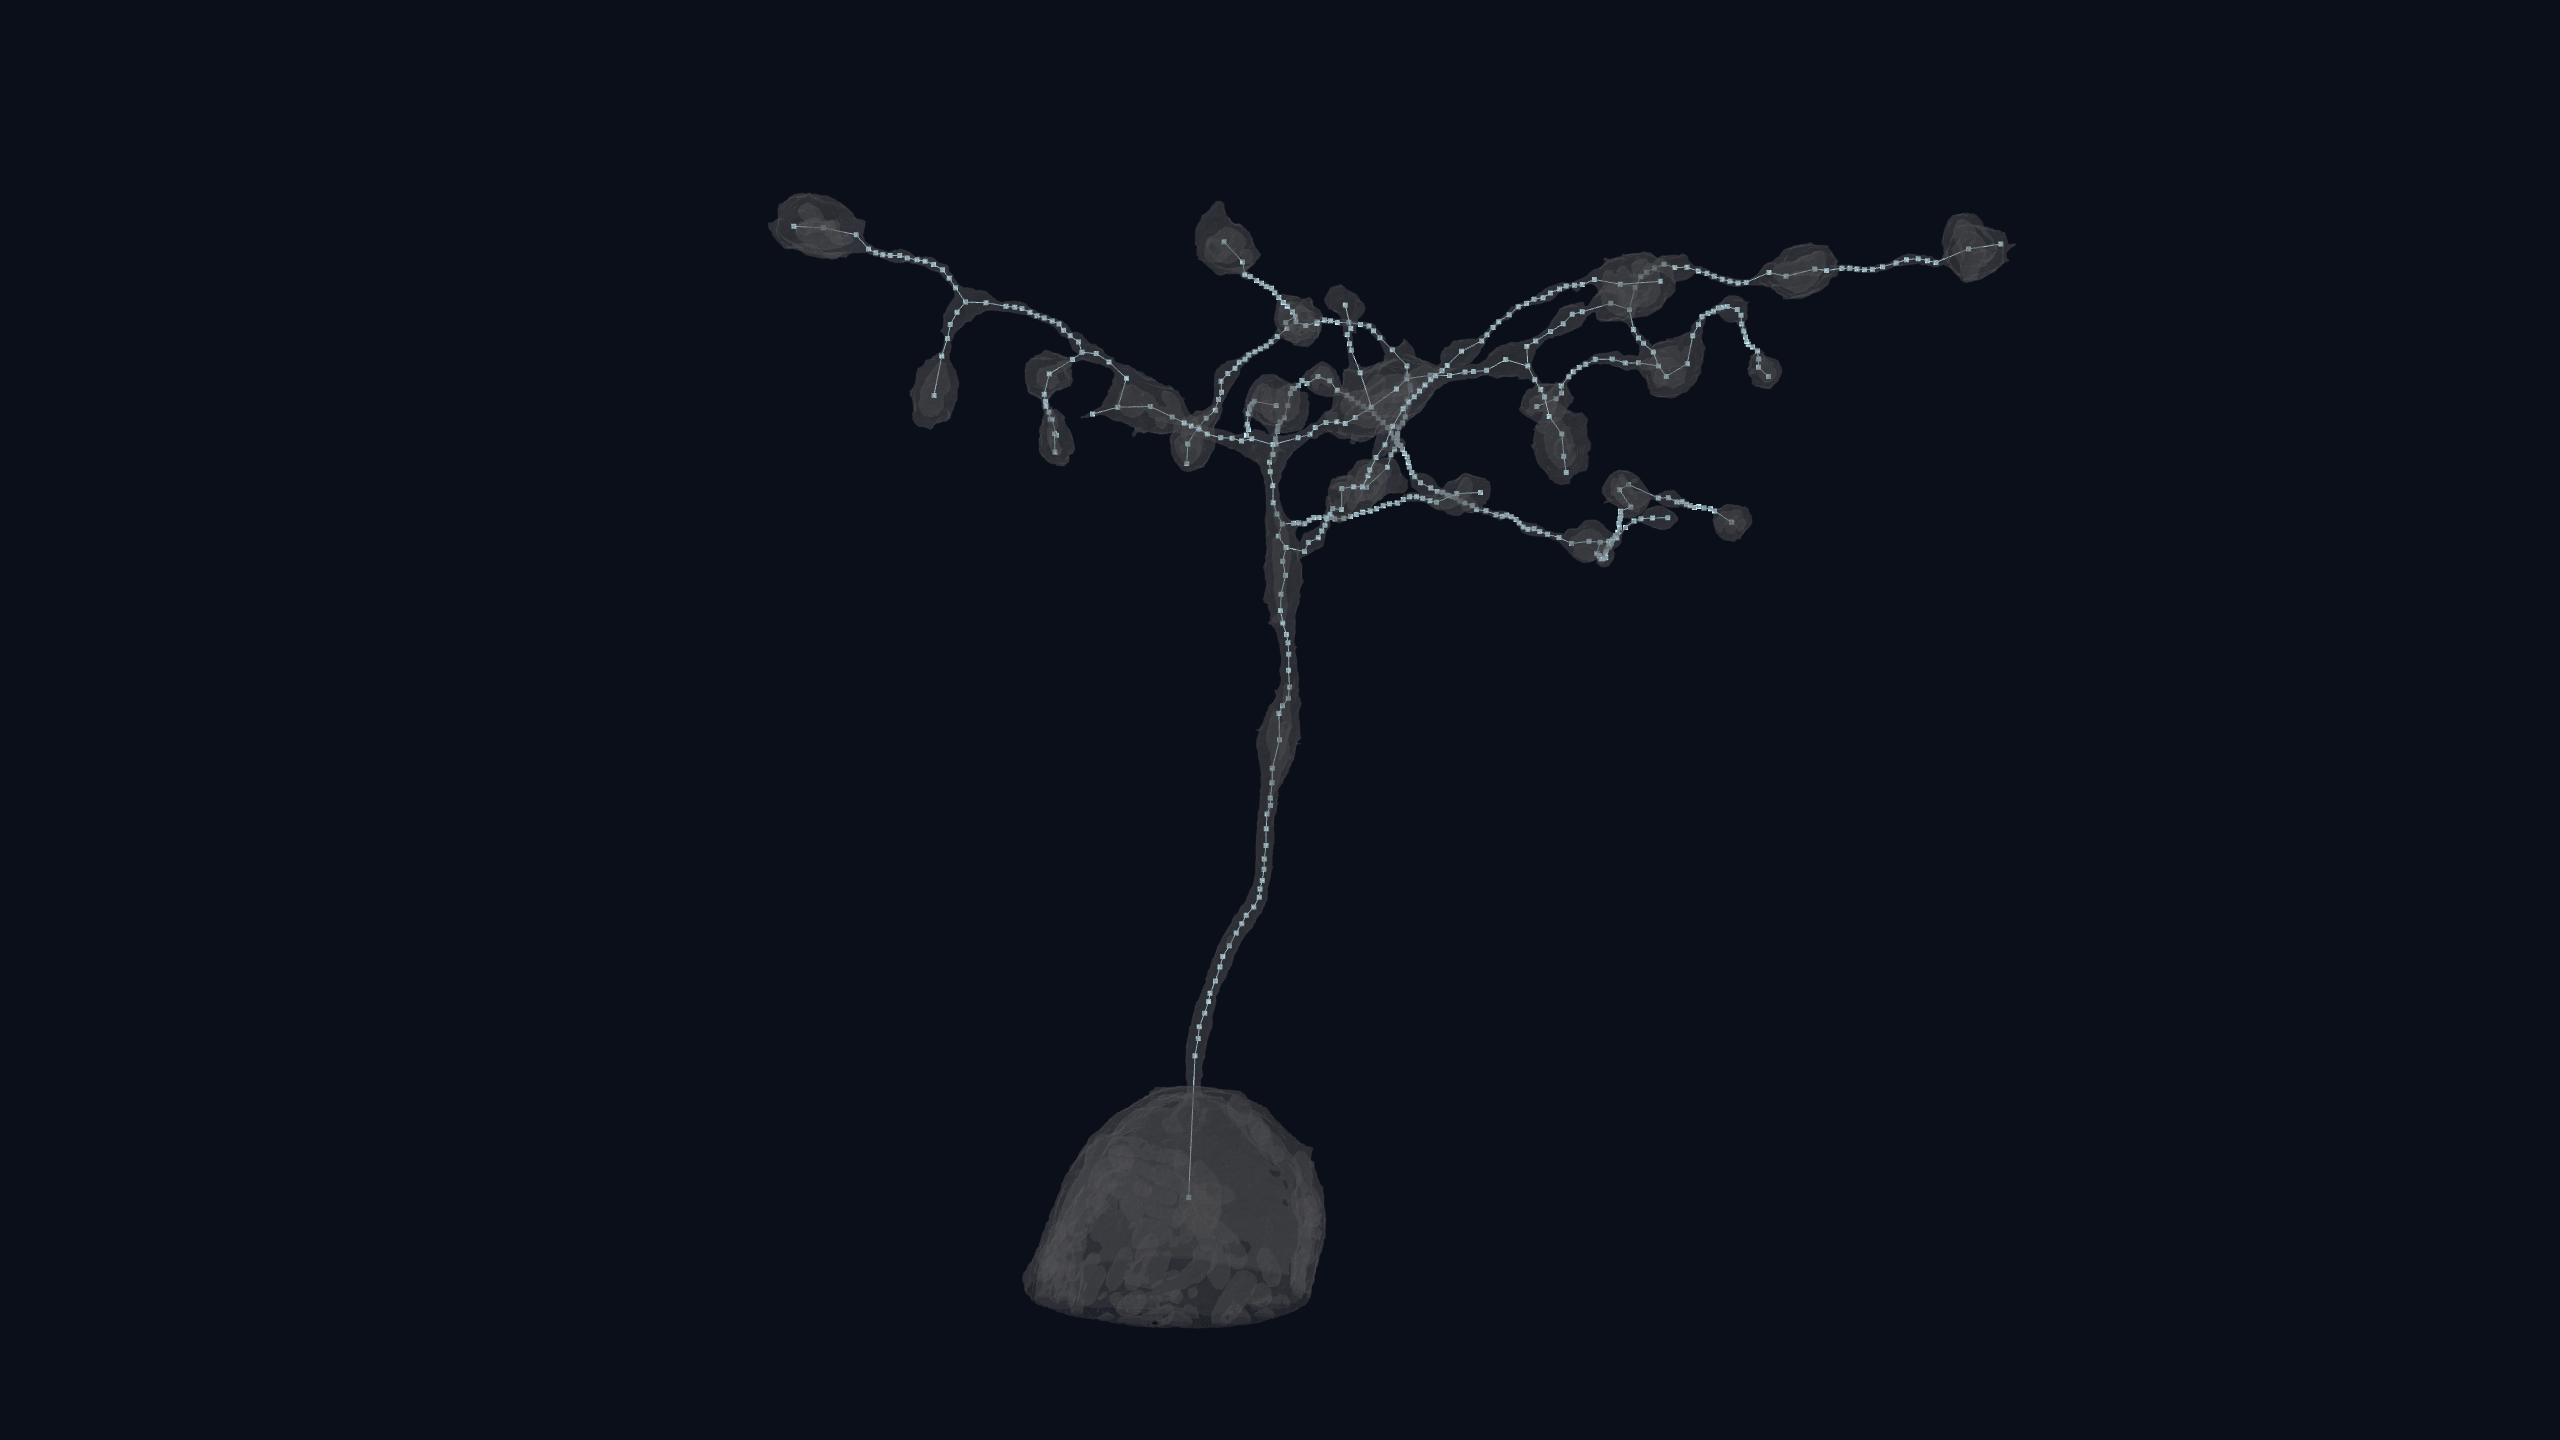
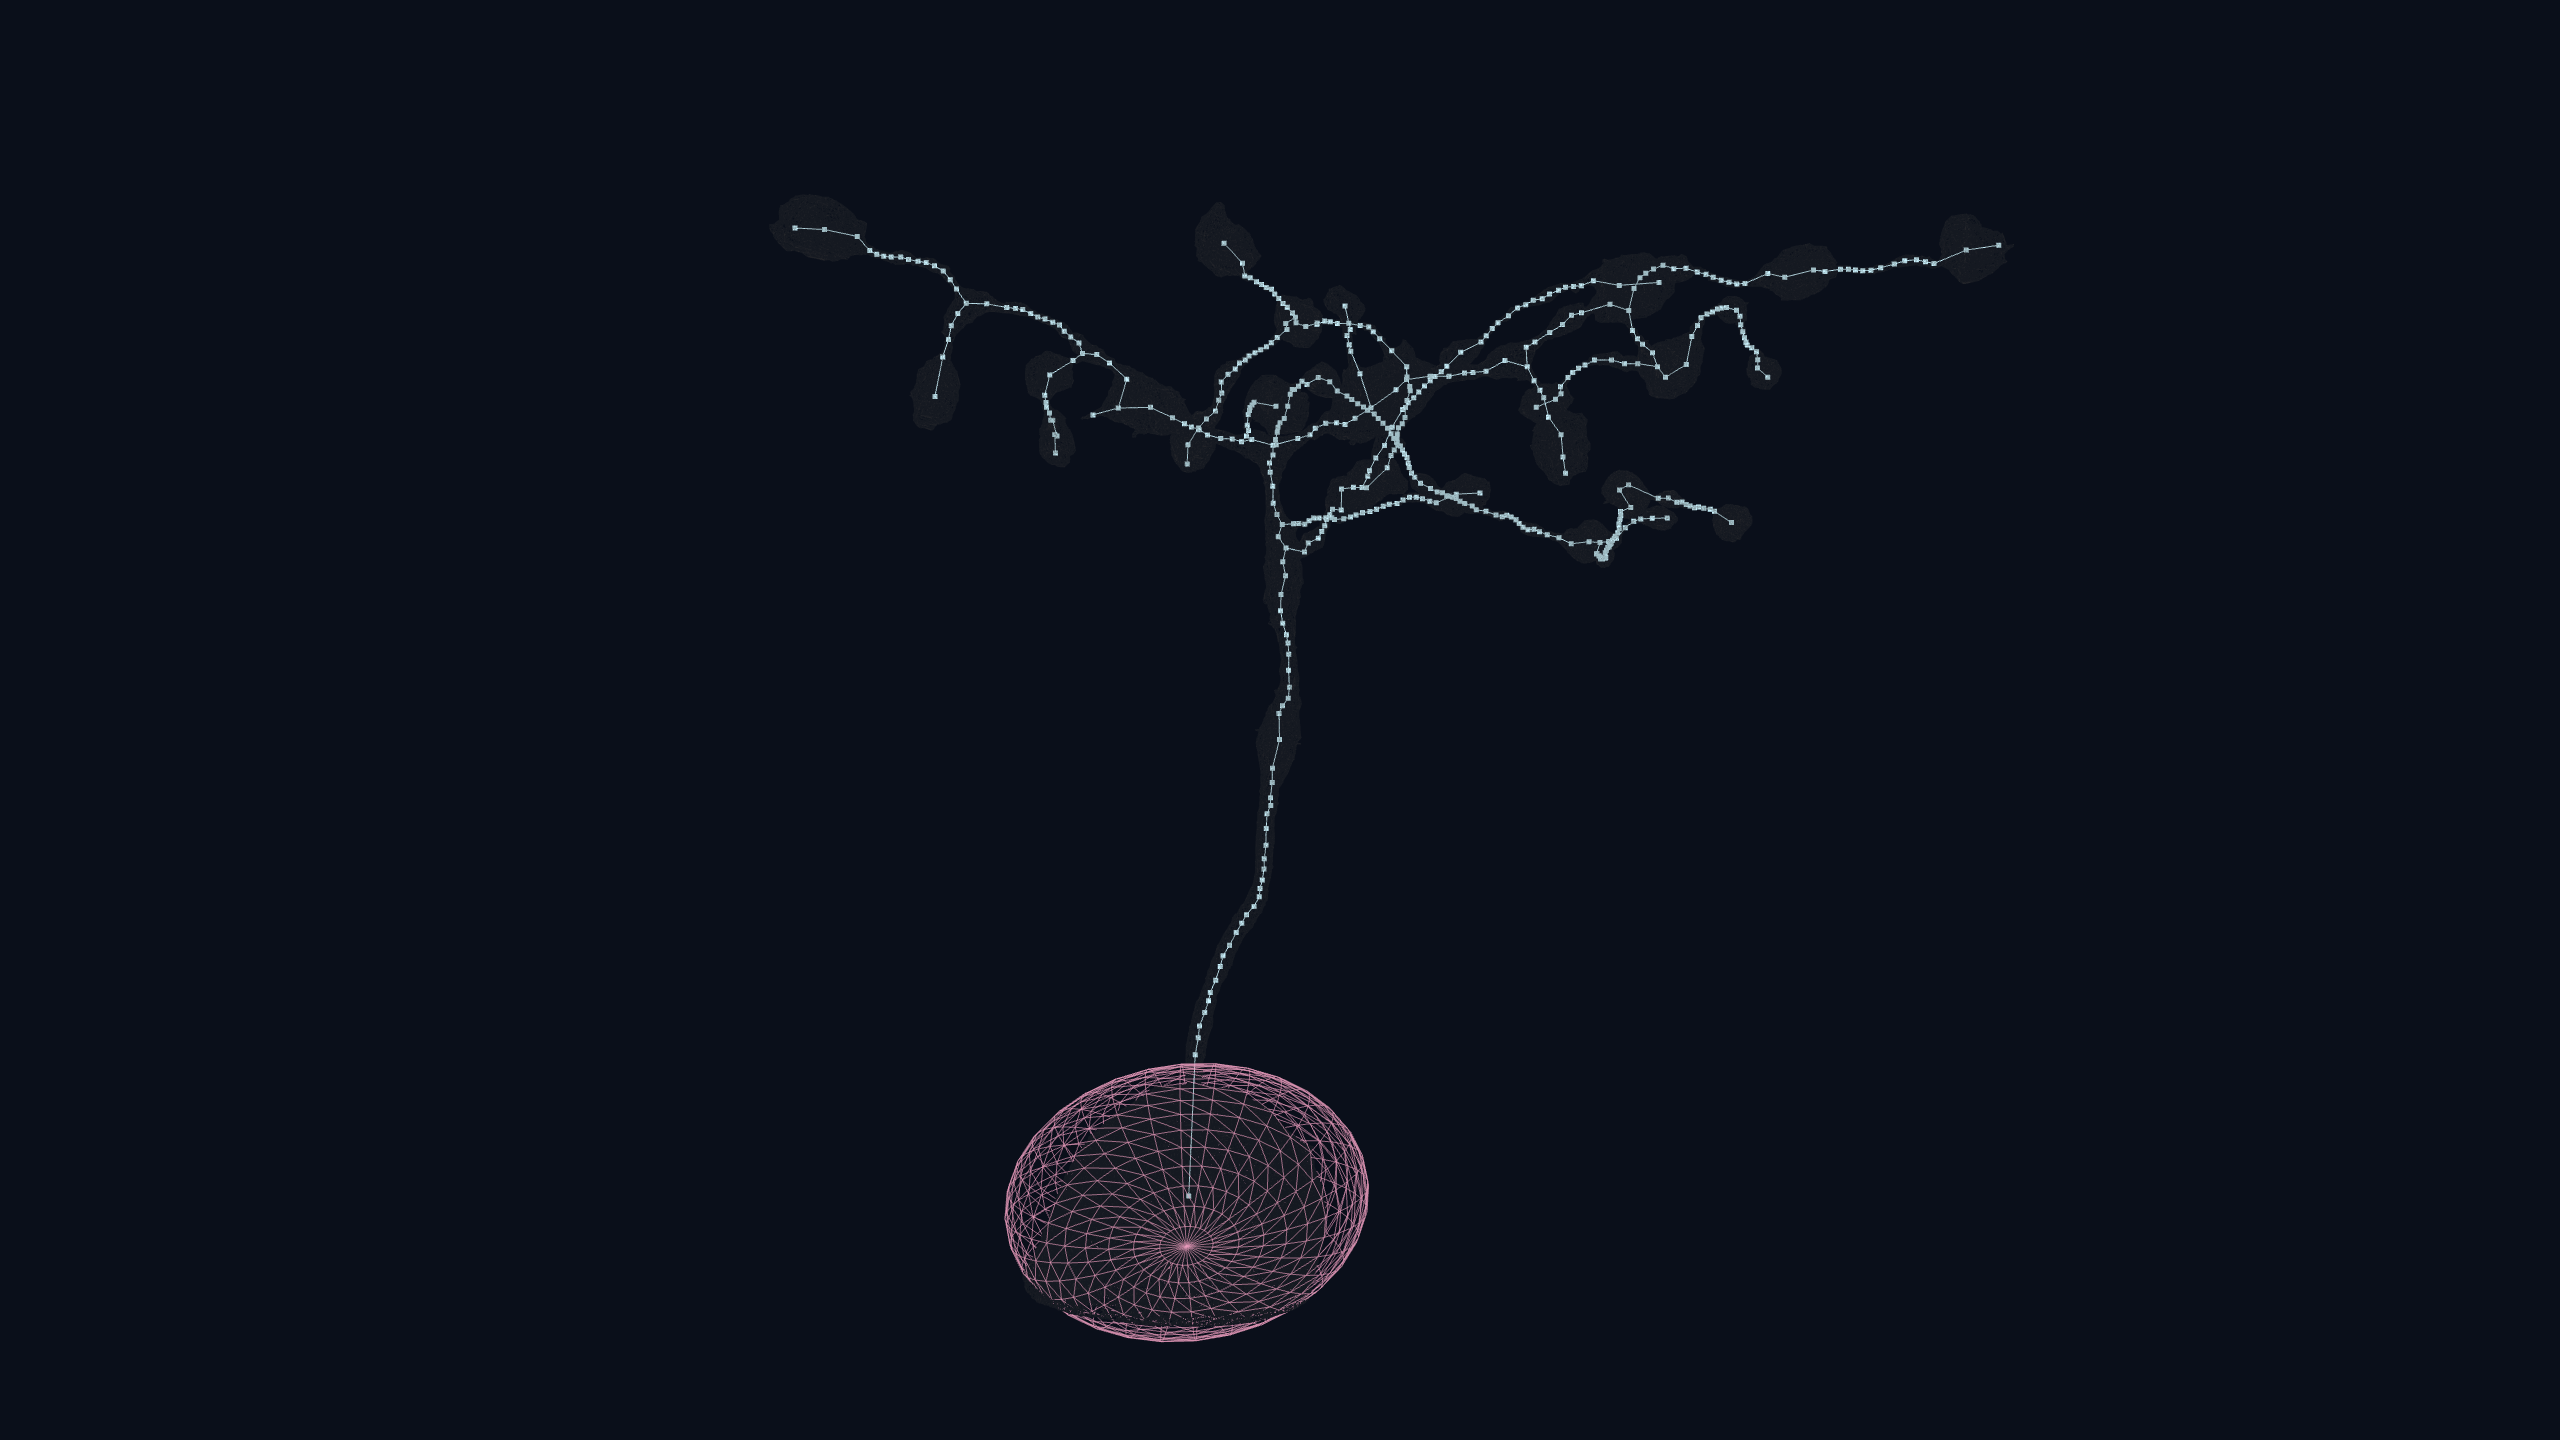
update: README

diff --git a/skeliner/viewer/viewer.html b/skeliner/viewer/viewer.html
@@ -1107,7 +1107,9 @@
                      is exposed rather than baked in: change it, re-run, and
                      watch which nodes come and go.  Results land as findings,
                      and focusing one selects its bin, which arms the bin
-                     verbs. -->
+                     verbs.  Shown while a skeleton is loaded (never in
+                     contact mode, which has none). -->
+                <div id="checkRows" style="display: none">
                 <div class="row">
                     <span
                         class="row-label"
@@ -1133,6 +1135,7 @@
                     <span id="dxStatus" class="dim"></span>
                 </div>
                 <div id="dxParams" class="row"></div>
+                </div>
                 <div class="row nav-row">
                     <button id="findPrevBtn" title="Previous finding ([)">‹ prev</button>
                     <span id="findPos" class="dim"></span>
@@ -2071,6 +2074,7 @@
                     if (binsAvailable(name)) showRings(name);
                     else clearRings();
                 }
+                refreshCheckRows();
             }
 
             function buildTubes(name) {
@@ -2902,6 +2906,14 @@
                 // Layers on every load, the page in use most; contact mode
                 // has only Findings
                 showTab(contactMode ? "findings" : "layers");
+                refreshCheckRows();
+            }
+
+            /** The checks run on a skeleton: shown while one is loaded,
+             *  never in contact mode, which has none. */
+            function refreshCheckRows() {
+                const rows = document.getElementById("checkRows");
+                if (rows) rows.style.display = !contactMode && Object.keys(skelGroups).length ? "" : "none";
             }
 
             function setupTools() {
@@ -6796,6 +6808,7 @@
                         }
                         updateLoadedPanel();
                         refreshSkeletonizeCue();
+                        refreshCheckRows();
                         if (Object.keys(skelGroups).length === 0 && !meshObj)
                             document.getElementById("empty-hint").style.display = "block";
                     } else if (msg.type === "all_skeletons_removed") {
@@ -6812,6 +6825,7 @@
                         refreshEditingSkel();
                         updateLoadedPanel();
                         refreshSkeletonizeCue();
+                        refreshCheckRows();
                         if (!meshObj) document.getElementById("empty-hint").style.display = "block";
                     } else if (msg.type === "log") {
                         showLogStatus(msg.text);

diff --git a/README.md b/README.md
@@ -78,7 +78,22 @@ A lightweight skeletonizer that converts neuron meshes into biophysical‑modell
       areas on A/B and their mean, plus compact AABBs for downstream use.
     - Optional skeleton‑only approximation of contact sites/areas when meshes are unavailable.
 
-
+<table>
+  <tr>
+    <td width="30%" align="center">
+      <img width="100%" alt="contact sites between two cells" src=".github/media/contacts/contacts.png" />  <br />   
+      <sub>All contacts sites of two cells</sub>
+    </td>
+    <td width="30%" align="center">
+      <img width="100%"  alt="zoomed in to the contact sites (opaque)" src=".github/media/contacts/zoom-in-opaque.png" /> <br />
+      <sub>Contact sites (zoomed in)</sub>
+    </td>
+    <td width="30%" align="center">
+      <img width="100%"  alt="zommed in to the contact sites (transparent)" src=".github/media/contacts/zoom-in-transparent.png" />
+      <sub>Contact sites (zommed in with transparent meshes)</sub>
+    </td>
+  </tr>
+</table>
 
 - I/O, visualization, diagnostics and post-processing
     - Read/write SWC and compact NPZ;
